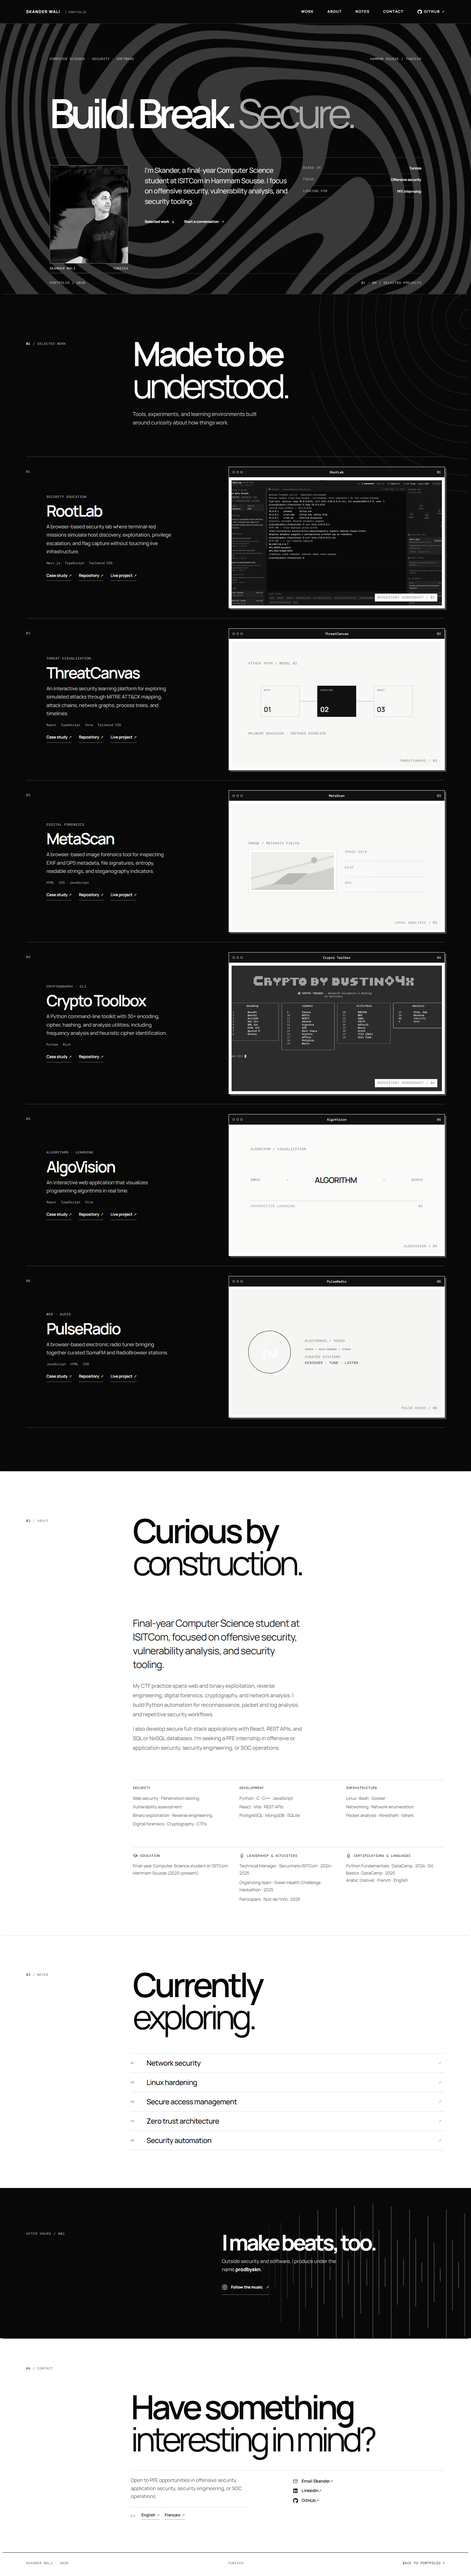
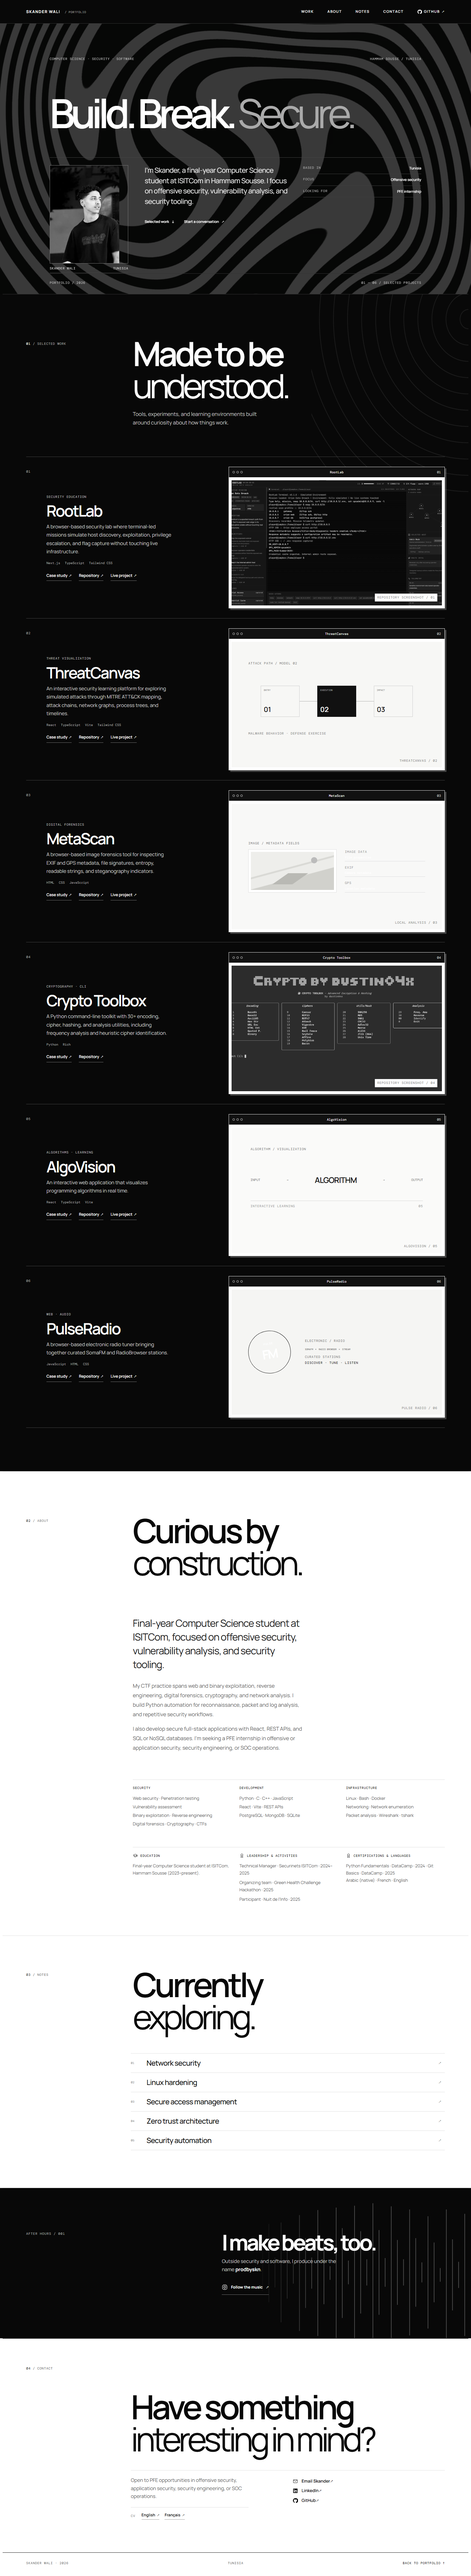
Center portrait in the hero frame

diff --git a/src/editorial.css b/src/editorial.css
@@ -2,7 +2,8 @@
 .site-header nav a,.menu-toggle{font-size:11px}
 .hero-bottom{grid-template-columns:repeat(12,minmax(0,1fr));align-items:start}
 .hero-portrait{grid-column:1/4;grid-row:1;margin:0;max-width:240px}
-.hero-portrait img{display:block;width:100%;height:300px;object-fit:cover;object-position:center 30%;filter:grayscale(1);border:1px solid #111}
+.hero-portrait-image{height:300px;overflow:hidden;border:1px solid #111}
+.hero-portrait-image img{display:block;width:100%;height:100%;object-fit:cover;object-position:center 30%;transform:scale(1.08) translateX(-14%);transform-origin:center 30%;filter:grayscale(1)}
 .hero-portrait figcaption{display:flex;gap:7px;align-items:center;justify-content:space-between;padding-top:8px;border-bottom:1px solid var(--line);padding-bottom:7px;font:10px var(--mono);letter-spacing:.06em;text-transform:uppercase;color:#555}
 .hero-portrait figcaption span{color:#aaa}
 .hero-statement{grid-column:4/9}
@@ -43,7 +44,7 @@
 @media(max-width:620px){
   .hero-bottom{grid-template-columns:1fr;gap:22px}
   .hero-portrait{grid-column:1;grid-row:auto;width:min(48%,190px);max-width:none}
-  .hero-portrait img{height:220px;object-position:center 30%}
+  .hero-portrait-image{height:220px}
   .hero-statement,.hero-meta{grid-column:1}
   .hero-statement{grid-row:auto}
   .hero-meta{grid-row:auto}

diff --git a/src/pages/HomePage.tsx b/src/pages/HomePage.tsx
@@ -91,7 +91,7 @@ export function HomePage() {
         <div className="hero-top"><span className="eyebrow">Computer science · security · software</span><span className="hero-coordinate">Hammam Sousse / Tunisia</span></div>
         <h1>Build. Break. <em>Secure.</em></h1>
         <div className="hero-bottom">
-          <figure className="hero-portrait"><img src="/skander-wali.webp" alt="Skander Wali" width="640" height="800" fetchPriority="high"/><figcaption>Skander Wali <span>·</span> Tunisia</figcaption></figure>
+          <figure className="hero-portrait"><div className="hero-portrait-image"><img src="/skander-wali.webp" alt="Skander Wali" width="640" height="800" fetchPriority="high"/></div><figcaption>Skander Wali <span>·</span> Tunisia</figcaption></figure>
           <div className="hero-statement">
             <p>I’m Skander, a final-year Computer Science student at ISITCom in Hammam Sousse. I focus on offensive security, vulnerability analysis, and security tooling.</p>
             <div className="hero-actions"><a className="text-link" href="#work">Selected work <Arrow diagonal={false}/></a><a className="text-link" href="#contact">Start a conversation <Arrow/></a></div>

diff --git a/src/art-direction.css b/src/art-direction.css
@@ -10,7 +10,8 @@
 .hero h1{font-size:clamp(72px,11vw,156px);letter-spacing:-.095em}
 .hero h1 em{color:#aaa}
 .hero-bottom{border-top-color:#444}
-.hero-portrait img{border-color:#777;filter:grayscale(1) contrast(1.03)}
+.hero-portrait-image{border-color:#777}
+.hero-portrait-image img{filter:grayscale(1) contrast(1.03)}
 .hero-portrait figcaption{border-color:#444;color:#ccc}
 .hero-portrait figcaption span{color:#666}
 .hero-statement p{color:#eee}
@@ -54,7 +55,7 @@
 @media(max-width:620px){
   .hero{padding-left:var(--gutter);padding-right:var(--gutter)}
   .hero h1{font-size:clamp(55px,13vw,80px);margin-top:72px}
-  .hero-portrait img{filter:grayscale(1) contrast(1.03)}
+  .hero-portrait-image img{filter:grayscale(1) contrast(1.03)}
   .work::after{background-size:300px 420px}
   .beat-note{grid-template-columns:1fr;gap:25px;min-height:300px;padding-top:55px;padding-bottom:55px}
   .beat-label{grid-row:1}
